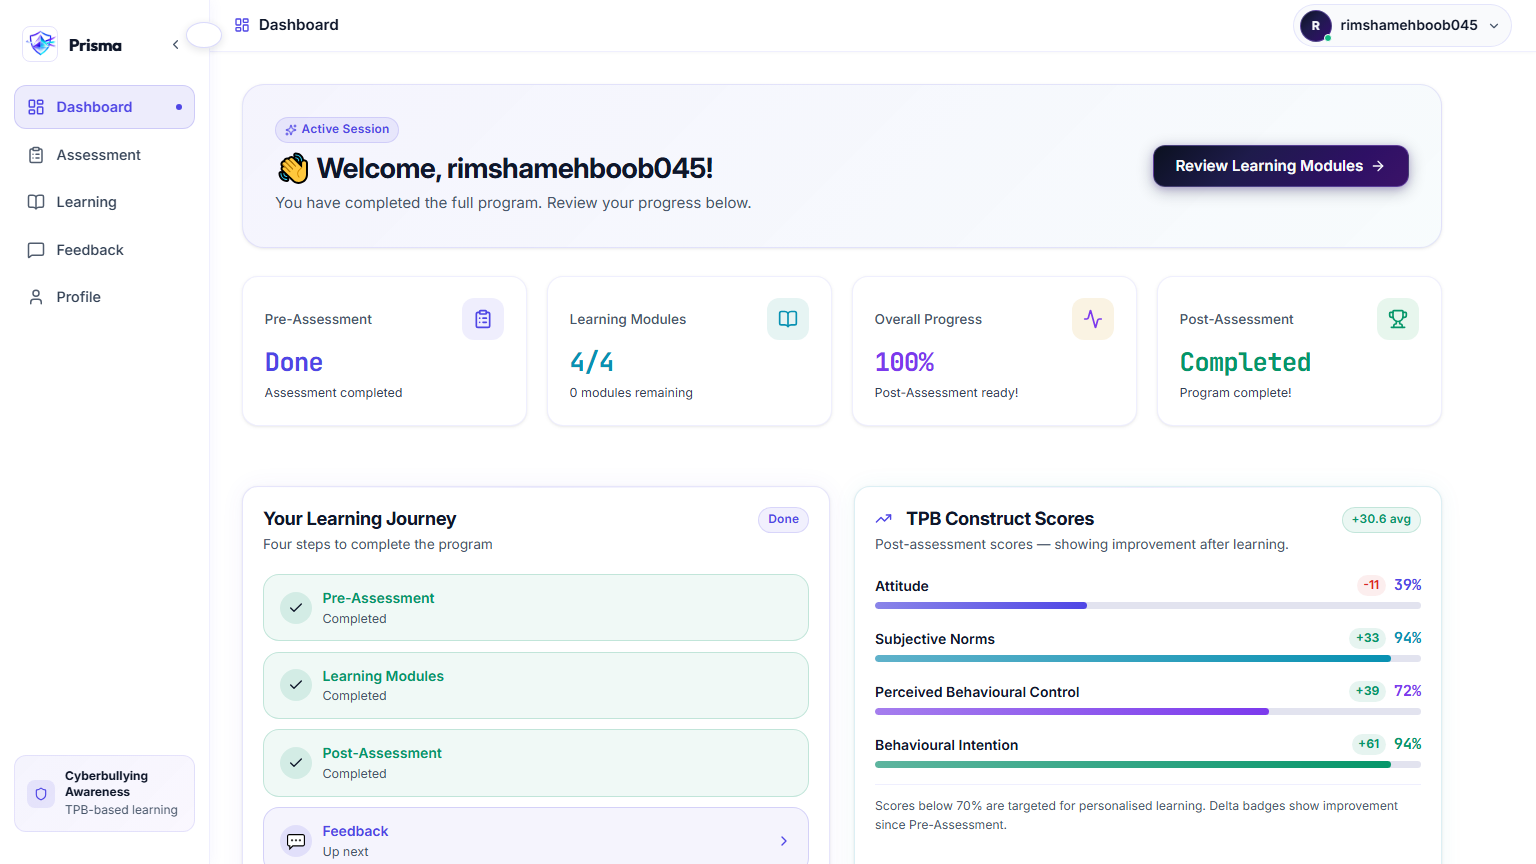
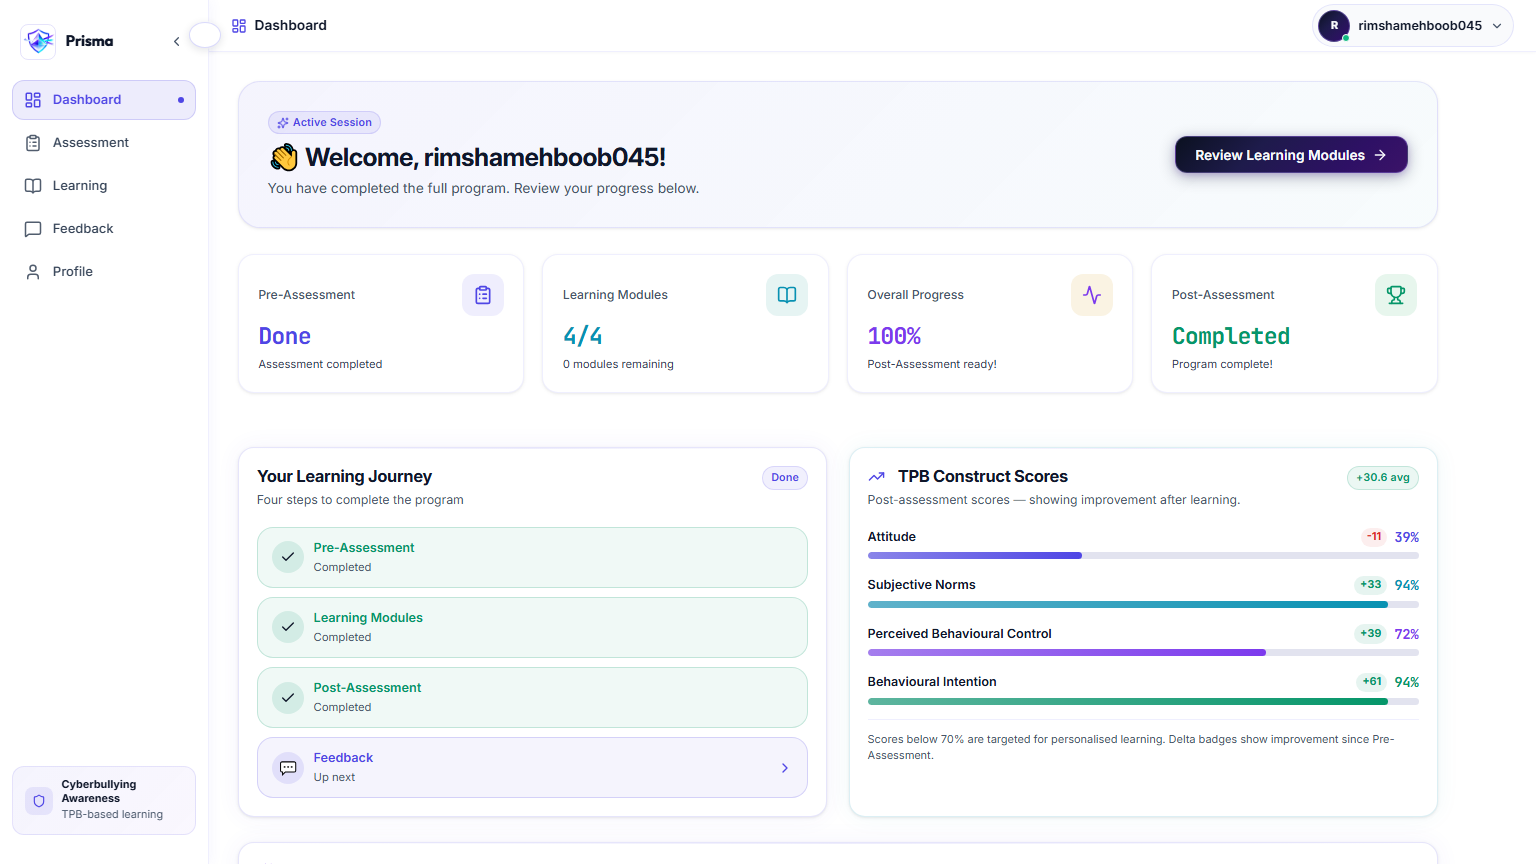
feat(ui): global 85% zoom fluid typography, rem conversions, stretch image heights, and multi-resolution responsive audits

diff --git a/client/src/index.css b/client/src/index.css
@@ -88,8 +88,8 @@
   --transition-bounce: 320ms cubic-bezier(0.34, 1.56, 0.64, 1);
 
   /* ── Sidebar dimensions ── */
-  --sidebar-width: 210px;
-  --sidebar-collapsed-width: 58px;
+  --sidebar-width: 14.5rem;
+  --sidebar-collapsed-width: 3.8rem;
 }
 
 /* ── Reset & Base ──────────────────────────────────────────────────────────── */
@@ -150,7 +150,7 @@ body,
 
 html {
   scroll-behavior: smooth;
-  font-size: clamp(14px, 0.55vw + 10.5px, 16px);
+  font-size: clamp(12px, 0.45vw + 7.5px, 15px);
 }
 
 h1 {
@@ -5693,7 +5693,7 @@ select.form-input option {
 
 @media (max-width: 1280px) {
   :root {
-    --sidebar-width: 200px;
+    --sidebar-width: 13.5rem;
   }
 }
 
@@ -7242,7 +7242,7 @@ select.form-input option {
 }
 
 .assessment-situation-badge {
-  font-size: 11px;
+  font-size: 0.72rem;
   font-weight: 600;
   color: var(--color-text-secondary);
   background: var(--color-surface-2);
@@ -7254,7 +7254,7 @@ select.form-input option {
 }
 
 .assessment-page-subtitle {
-  font-size: 12.5px;
+  font-size: 0.82rem;
   line-height: 1.35;
   color: var(--color-text-muted);
   margin: 0;
@@ -7281,7 +7281,7 @@ select.form-input option {
 }
 
 .assessment-progress-label {
-  font-size: 11.5px;
+  font-size: 0.75rem;
   font-weight: 600;
   text-transform: uppercase;
   letter-spacing: 0.06em;
@@ -7313,7 +7313,7 @@ select.form-input option {
   display: flex;
   align-items: center;
   gap: 0.25rem;
-  font-size: 11px;
+  font-size: 0.72rem;
   font-weight: 600;
   color: var(--color-text-secondary);
   background: var(--color-surface-2);
@@ -7332,7 +7332,7 @@ select.form-input option {
   display: flex;
   align-items: center;
   justify-content: center;
-  font-size: 11px;
+  font-size: 0.72rem;
   font-weight: 700;
   box-shadow: 0 1px 4px rgba(79, 70, 229, 0.2);
   border: 1.5px solid #ffffff;
@@ -7594,7 +7594,7 @@ select.form-input option {
 }
 
 .question-num-indicator {
-  font-size: 12px;
+  font-size: 0.78rem;
   font-weight: 700;
   color: var(--color-text-secondary);
   text-transform: uppercase;
@@ -7606,7 +7606,7 @@ select.form-input option {
   display: inline-flex;
   align-items: center;
   gap: 0.3rem;
-  font-size: 11px;
+  font-size: 0.72rem;
   font-weight: 700;
   padding: 0.15rem 0.5rem;
   border-radius: 99px;
@@ -7672,7 +7672,7 @@ select.form-input option {
   display: flex;
   align-items: center;
   justify-content: center;
-  font-size: 10.5px;
+  font-size: 0.68rem;
   font-weight: 700;
   cursor: pointer;
   transition: all 0.18s ease;
@@ -7766,7 +7766,7 @@ select.form-input option {
   display: flex;
   align-items: center;
   justify-content: center;
-  font-size: 11.5px;
+  font-size: 0.75rem;
   font-weight: 700;
   flex-shrink: 0;
   transition: all 0.18s ease;
@@ -7778,7 +7778,7 @@ select.form-input option {
 }
 
 .assessment-option-text-body {
-  font-size: 14.5px;
+  font-size: 0.92rem;
   line-height: 1.45;
   color: var(--color-text);
   flex: 1;
@@ -7811,7 +7811,7 @@ select.form-input option {
   background: linear-gradient(135deg, #6366f1 0%, #4f46e5 100%);
   color: #ffffff;
   border: none;
-  font-size: 15px;
+  font-size: 0.95rem;
   font-weight: 700;
   padding: 0.75rem 1.65rem;
   border-radius: 14px;
@@ -7837,7 +7837,7 @@ select.form-input option {
   background: transparent;
   border: none;
   color: var(--color-primary);
-  font-size: 14px;
+  font-size: 0.9rem;
   font-weight: 600;
   cursor: pointer;
   text-decoration: underline;
@@ -7911,17 +7911,17 @@ select.form-input option {
     font-size: var(--fs-xl);
   }
   .scenario-content-title {
-    font-size: 20px;
+    font-size: var(--fs-xl);
   }
   .assessment-question-text-title {
-    font-size: 19px;
+    font-size: var(--fs-lg);
   }
   .assessment-sticky-footer-bar {
     padding: 0.75rem 1rem;
   }
   .assessment-next-btn-gradient {
     padding: 0.65rem 1.2rem;
-    font-size: 14px;
+    font-size: 0.9rem;
   }
   .question-timeline-track-wrap {
     overflow-x: auto;

diff --git a/client/scripts/capture_screenshots.js b/client/scripts/capture_screenshots.js
@@ -27,6 +27,9 @@ const viewports = [
 ];
 
 const pages = [
+  { name: 'Landing', path: '/', auth: null },
+  { name: 'Login', path: '/login', auth: null },
+  { name: 'Register', path: '/register', auth: null },
   { name: 'Dashboard', path: '/dashboard', auth: authUser15 },
   { name: 'Assessment', path: '/assessment?stage=pre&mode=take', auth: authUser1 },
   { name: 'Learning', path: '/interventions', auth: authUser15 },
@@ -50,11 +53,18 @@ async function run() {
 
     for (const p of pages) {
       // Set auth for the page user
-      await page.goto('http://localhost:5173/login', { waitUntil: 'domcontentloaded' });
-      await page.evaluate((auth) => {
-        localStorage.setItem('tpb_token', auth.token);
-        localStorage.setItem('tpb_user', JSON.stringify(auth.user));
-      }, p.auth);
+      if (p.auth) {
+        await page.goto('http://localhost:5173/login', { waitUntil: 'domcontentloaded' });
+        await page.evaluate((auth) => {
+          localStorage.setItem('tpb_token', auth.token);
+          localStorage.setItem('tpb_user', JSON.stringify(auth.user));
+        }, p.auth);
+      } else {
+        await page.goto('http://localhost:5173/login', { waitUntil: 'domcontentloaded' });
+        await page.evaluate(() => {
+          localStorage.clear();
+        });
+      }
 
       const url = `http://localhost:5173${p.path}`;
       console.log(`  Capturing ${p.name} at ${vp.name}...`);

diff --git a/client/src/pages/Assessment.jsx b/client/src/pages/Assessment.jsx
@@ -1535,7 +1535,7 @@ export default function Assessment() {
                 <div className="scenario-right-content-pane">
                   <div className="scenario-meta-row">
                     <Badge variant="primary">{currentScenario?.category || 'Scenario'}</Badge>
-                    <span style={{ fontSize: '12px', fontWeight: 600, color: 'var(--color-text-muted)' }}>
+                    <span style={{ fontSize: '0.78rem', fontWeight: 600, color: 'var(--color-text-muted)' }}>
                       Situation {currentScenarioIdx + 1} of {scenarios.length}
                     </span>
                   </div>
@@ -1702,7 +1702,7 @@ export default function Assessment() {
                 </Button>
 
                 <div style={{ display: 'flex', alignItems: 'center', gap: '1.25rem' }}>
-                  <span style={{ fontSize: '14px', fontWeight: 600, color: 'var(--color-text-secondary)' }}>
+                  <span style={{ fontSize: '0.9rem', fontWeight: 600, color: 'var(--color-text-secondary)' }}>
                     Question {currentQuestionIdx + 1} of {currentScenarioQuestions.length}
                   </span>
                   <button
